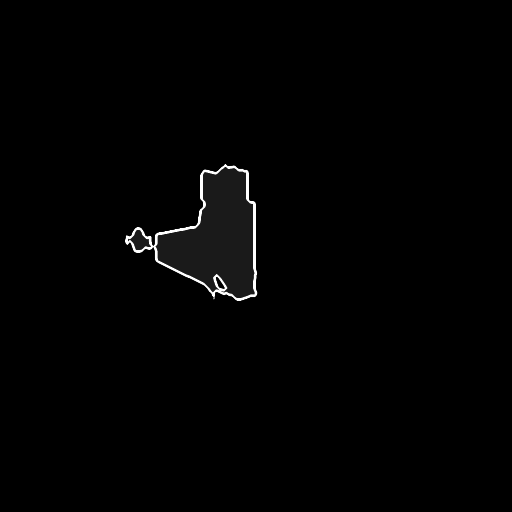
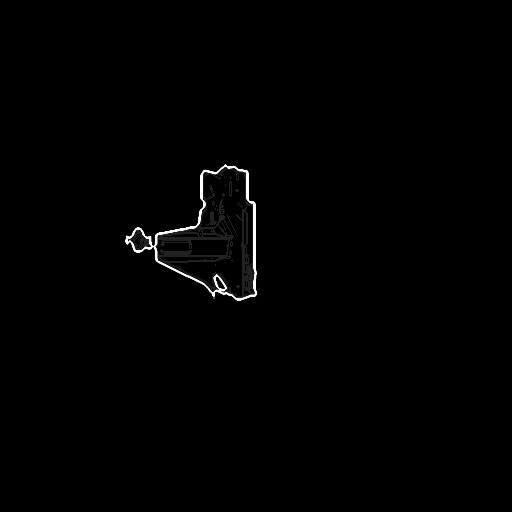
Engineering hull: bright outline with grey panel lines, no fill
The Step 75 pictures filled each part with grey. The owner wanted the
model's inner lines grey, not a fill. The four pictures now keep the
3 px outline and put the Step 74 panel lines inside at 40% brightness.

Build log: Step 75 and rule 37 say so; decision 36 (spoken orders),
left uncommitted earlier, goes in too.

Changed region(s): [[0.25, 0.3125, 0.5, 0.5938]]

diff --git a/Assets/Scenes/Tactical/BUILD_LOG.md b/Assets/Scenes/Tactical/BUILD_LOG.md
@@ -118,7 +118,7 @@ Do not run ahead. Do one step, show it, wait.
 | 72 | Mission clock and signal box lined up with the plot edges | **Done** — measured on screen |
 | 73 | Ruins in the level: the starbase husk and a debris belt; a Player Spawn at the bottom, the enemy's at the top | **Done** — playtest 168/168 |
 | 74 | Engineering's ship picture shows side armour; the room rings change colour | **Done** — playtest 168/168 |
-| 75 | Ships glide between ticks; DRADIS shows a contact where the sweep last touched it; in sight (10,000 km) its model shows; wrecks stay, grey; engineering's hull filled; weapons and DRADIS reach 30,000 km | **Done** — playtest 170/170 |
+| 75 | Ships glide between ticks; DRADIS shows a contact where the sweep last touched it; in sight (10,000 km) its model shows; wrecks stay, grey; engineering's hull redrawn; weapons and DRADIS reach 30,000 km | **Done** — playtest 170/170 |
 | 76 | Axis numbers are distances from our ship; the axis titles and the frame stencils TCB-1 and ACC 07 are gone | **Done** — playtest 171/171 |
 
 Steps 6 to 28 and Steps 34 to 76 are written up in section 6. Steps 29 to 33 are written up in `UI_INTEGRATION_LOG.md`. What is still not done is in **Open items**, at the very
@@ -536,8 +536,15 @@ These are settled. Do not reopen them.
 35. **The metal frame is in front** (owner, 2026-10-25). Anything a button opens should slide out
     from behind it: clipped to the frame's opening, under the rails and stations. Done for the six
     drawers. Helm, Orders and the periscope don't slide yet (Open items). Details in Step 66.
+36. **Spoken orders, once the board is finished** (owner, 2026-10-26). The captain can speak orders
+    ("come about to port", "all ahead full", "sweep bearing 045", "sweep there" while pointing) with
+    push-to-talk. Voice sits beside the buttons, never replacing them. The crew takes a moment to
+    carry an order out and answers with a quiet "roger". Speech is heard offline, on the player's
+    machine. Firing stays on buttons. Not built yet. Until then, every action keeps going through
+    `HandoffBoardControls.Click`, so a spoken order can use the same path and its refusals.
+    Details in `docs/voice-command-exploration.md`.
 37. **Engineering shows side armour on the ship picture** (owner, 2026-10-26). The picture is our
-    ship in four parts, one per side. Each part is a dim fill with a bright outline (Step 75). Each
+    ship in four parts, one per side. Each part is a bright outline with its panel lines in grey (Step 75). Each
     part is white while its armour is full, amber once hit, red once open. No compartment dots: the
     room rings show the rooms, white, amber or red by health. The plot ship stays plain white.
     Details in Steps 74 and 75.
@@ -3325,7 +3332,8 @@ tick. The owner asked for this:
 - Guns reach 30,000 km. DRADIS at full gain reaches 30,000 km. Visual range is 10,000 km. These are
   starting numbers, to be tuned.
 - The engineering hull picture looked greasy: every panel line of the model showed as a hairline.
-  The owner picked a dim fill with a bright outline.
+  The owner wanted the panel lines grey and the outline bright. (A solid grey fill was built first by
+  mistake; the owner turned it down the same day.)
 
 **What changed.**
 
@@ -3363,7 +3371,9 @@ tick. The owner asked for this:
 - **Engineering hull pictures.** The four images in `Assets/Art/Board/Hull/` were redrawn from the
   Step 74 line pictures.
   - Each part is the gap it leaves in the other three.
-  - The fill is at 35% brightness. A 3 px outline is at full brightness. Edges are smoothed at 4×.
+  - A 3 px outline is at full brightness, edges smoothed at 4×. Inside it, the Step 74 panel lines
+    are at 40% brightness, so they read grey (or dim amber or red). No fill. The lines stop 3 px
+    short of the outline.
   - The frame and the file names did not change, so nothing else had to.
   - To remake them for a new model, make the line pictures as in Step 74, then redraw them this way.
     `BoardLinearImage` encodes first and then uses brightness as alpha. So store each brightness as
@@ -3383,8 +3393,9 @@ tick. The owner asked for this:
 
 **Checked.** Playtest **PASS, 170/170** (`Logs/Playtests/2026-10-26_011622/`). The first run
 (`2026-10-26_011116`) failed only "Nothing heard yet": the east stand-in, fixed above. The
-screenshot `30_engineering_diagram.png` shows the filled hull: starboard amber, aft red, prow and
-port white.
+screenshot `30_engineering_diagram.png` shows the hull: starboard amber, aft red, prow and
+port white. That run had the solid fill. The grey-line version was checked by hand:
+`Logs/Checks/hull_inner_lines.png` (starboard half, aft open).
 
 Then, with the GARUDA renames and the fighter take-off change in the same build: playtest **PASS,
 171/171** (`Logs/Playtests/2026-10-26_013236/`).
